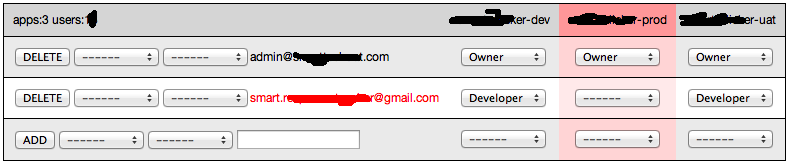
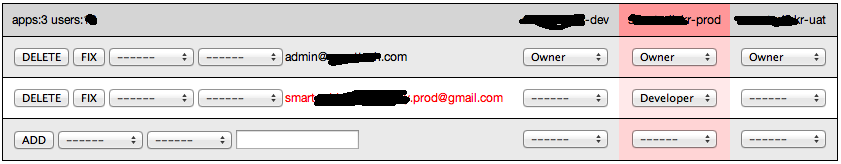
Updated documentation to reflect that we can now add/delete/modify.

Changed region(s): [[0.0, 0.0, 1.0, 1.0]]

diff --git a/README.md b/README.md
@@ -7,8 +7,6 @@ We have 10s of appengine projects (microservices) and 10s of users with need to 
 
 ![Screenshot](https://raw.githubusercontent.com/frumpel/appengine-user-manager/master/screenshot.png)
 
-Currently you can add and delete users. Changing of permissions is on my wishlist.
-
 Disclaimer
 ----------
 
@@ -22,7 +20,7 @@ This is a chrome extension - download the whole folder, enable developer mode in
 Usage
 -----
 
-The UX is still rather rough and so far only the overview, ADD and DELETE functionality is implemented. The current process to get to the overview stage is:
+The UX is workable but there are a few idiosyncracies left. The current process to get to the overview stage is:
 
 * open your appengine dashboard on the permissions tab
   * the content script runs and passes the list of avalaible projects to the background store
@@ -32,7 +30,7 @@ The UX is still rather rough and so far only the overview, ADD and DELETE functi
   * this will open a new window with a tab with the permissions page for every project you have. In parallel. This will max out your CPU and still take a long time. 
     * each of the tabs runs its content script and populates the background store
   * there is a setTimeout that will close the new window after 60s. If you find that you are not getting all the results you expect try adjusting the wait time
-* reload the dashboard 
+* reload the dashboard tab
 
 A note on naming conventions / assumptions:
 
